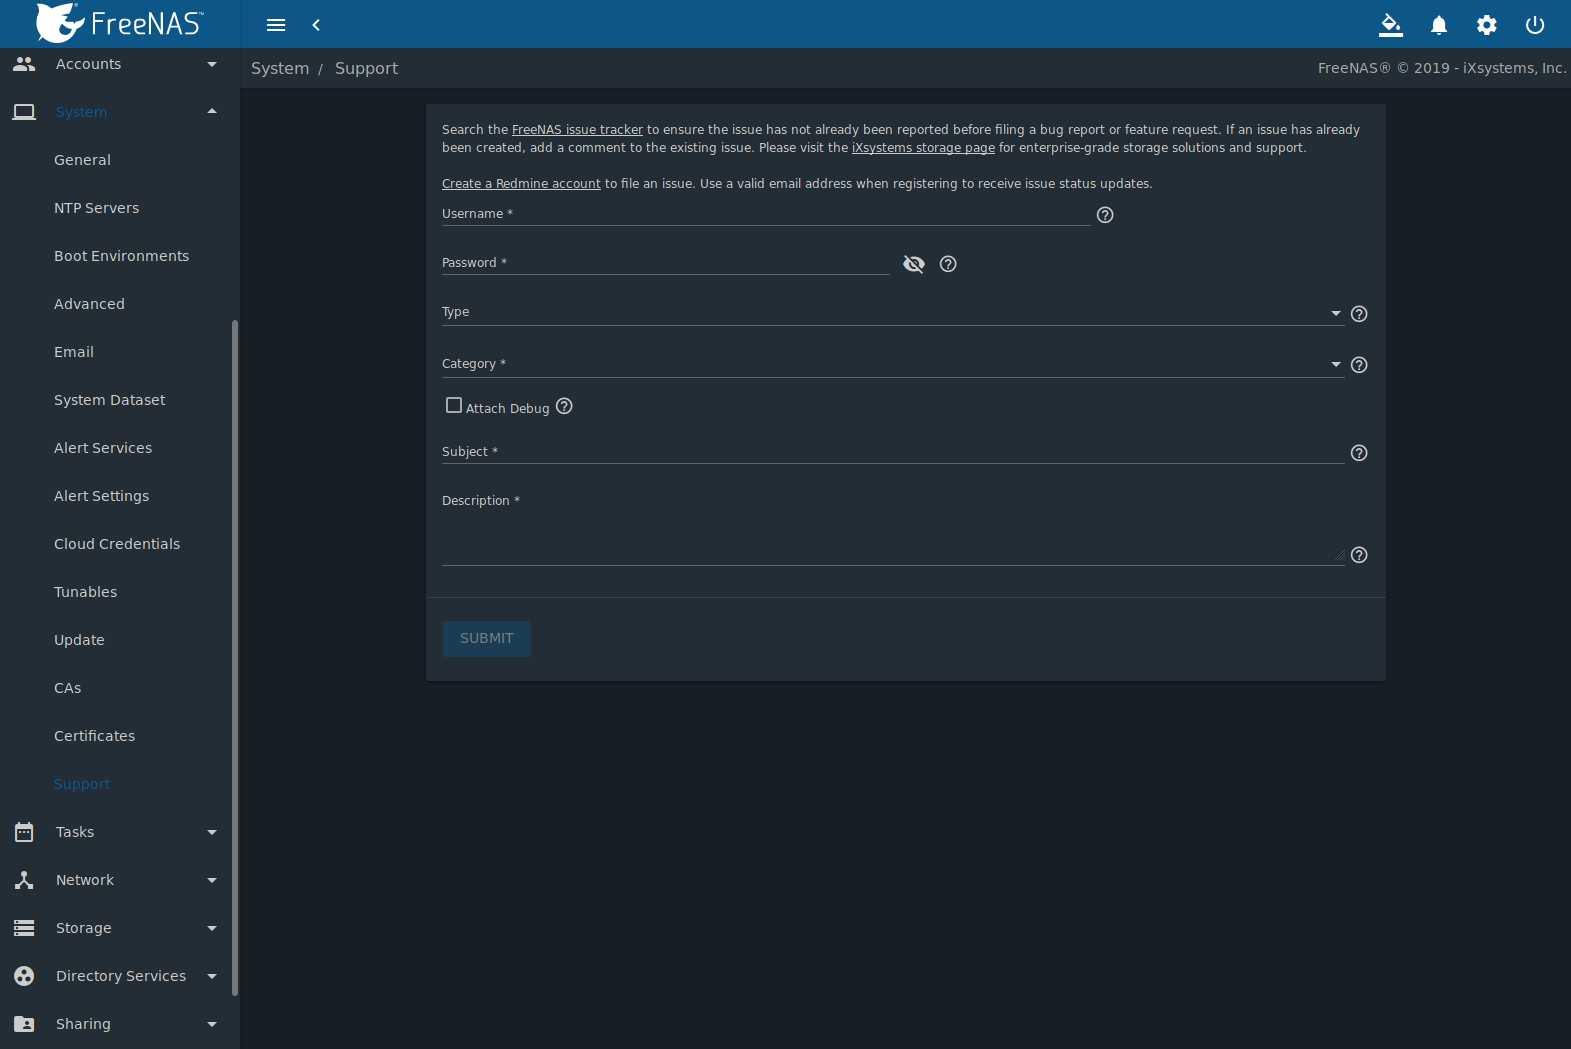
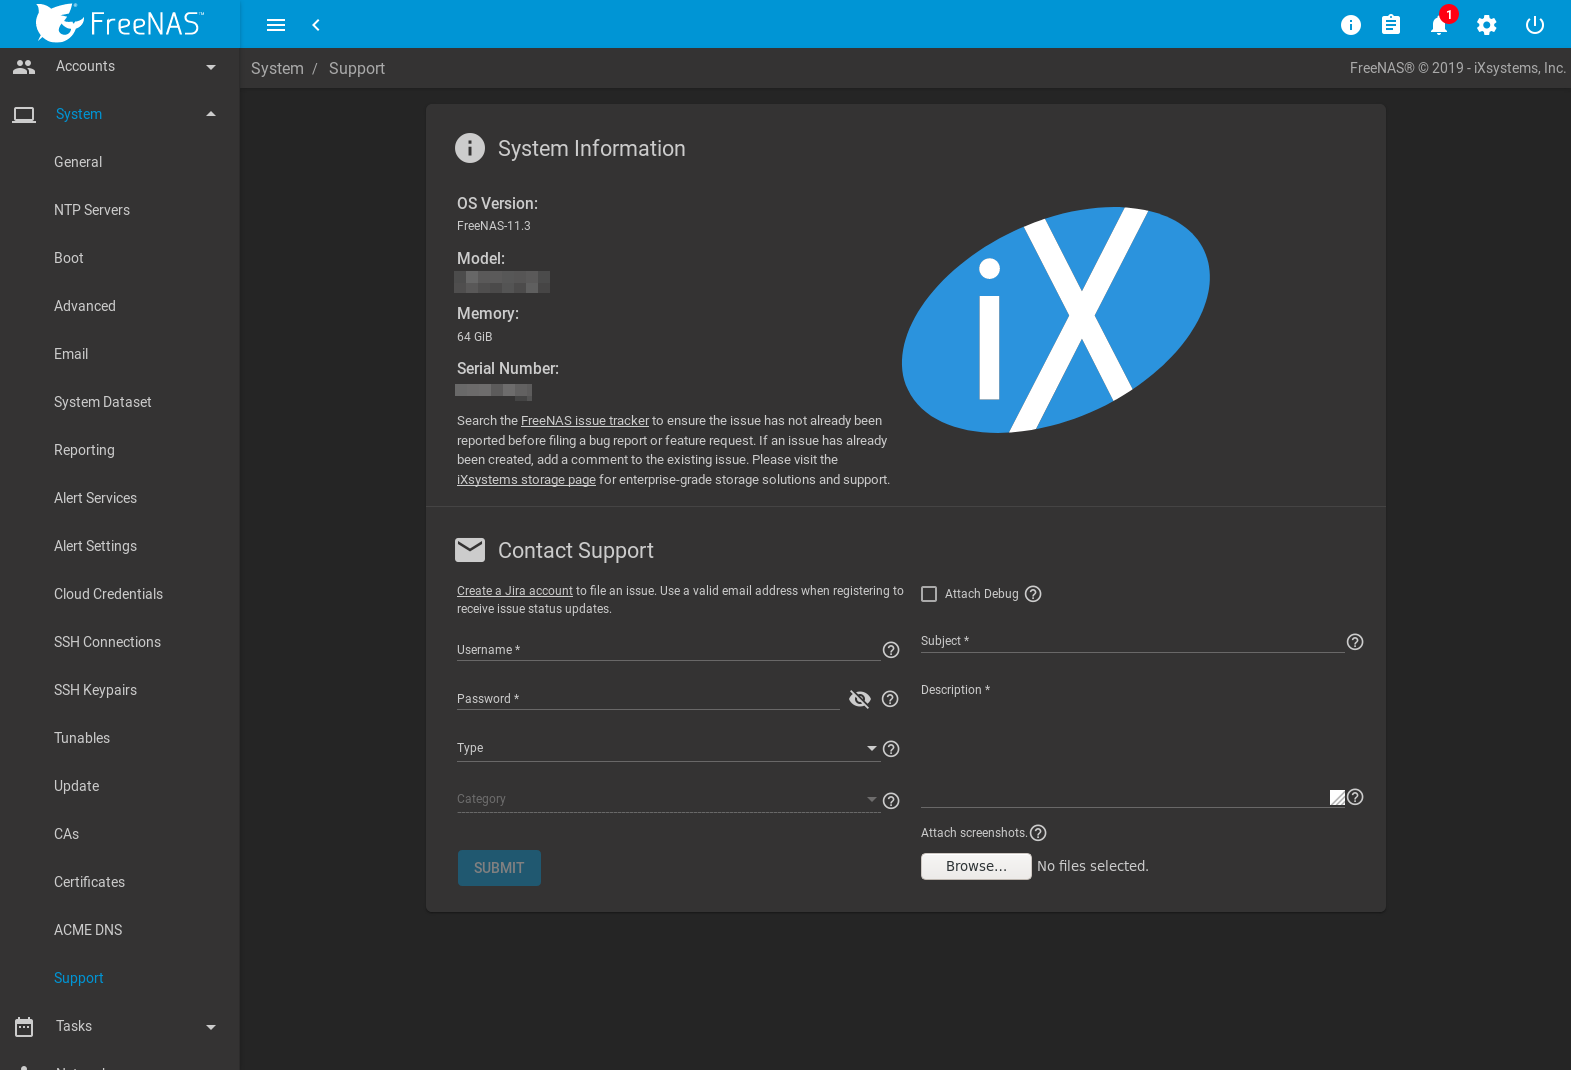
NAS-102300: Update FreeNAS System/Support section - Update related image - Update text slightly to match fields in the new ui - Review TrueNAS Support section to verify no further changes needed - HTML build testing: no issues.

diff --git a/userguide/system.rst b/userguide/system.rst
@@ -3049,13 +3049,13 @@ for generating bug reports and feature requests.
 
 
 This screen provides a built-in interface to the %brand% issue
-tracker located at
-|bug-tracker-link|.
-When using %brand% bug tracker for the first time, go
-to that website, click the :guilabel:`Register` link, fill out the
-form, and reply to the registration email. This will create a username
-and password which can be used to create bug reports and receive
-notifications as the reports are actioned.
+tracker located at |bug-tracker-link|.
+
+When using %brand% bug tracker for the first time, go to that website,
+click the :guilabel:`Register` link, fill out the form, and reply to the
+registration email. This creates a username and password which can be
+used to create bug reports and receive notifications as the reports are
+actioned.
 
 Before creating a bug report or feature request, ensure that an
 existing report does not already exist at
